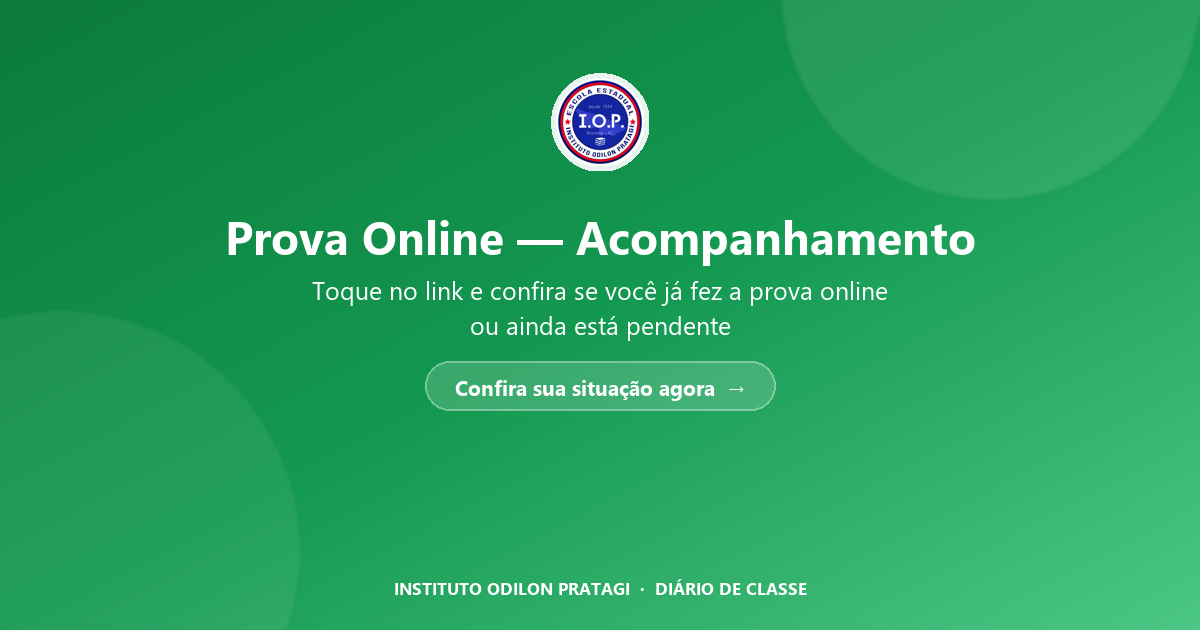
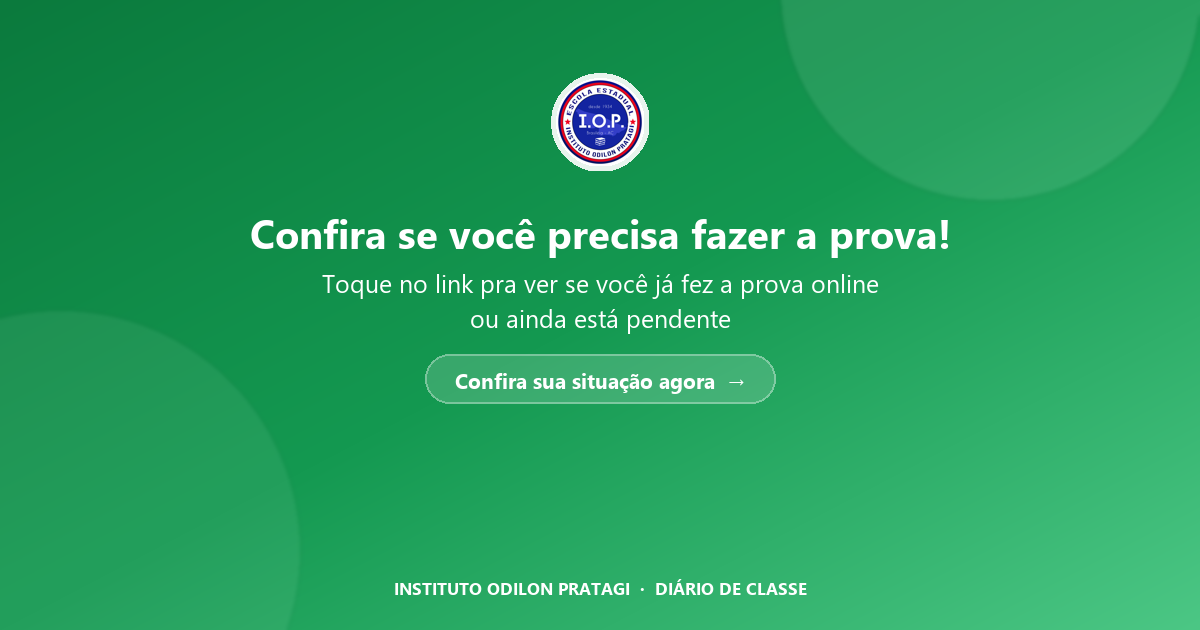
Título mais chamativo e remove a explicação da regra pros alunos
- Título trocado pra "Confira se você precisa fazer a prova!" na
  página, no card do WhatsApp (imagem) e nas meta tags Open Graph.
- Tira o parágrafo "Regra: quem tem mais de X dias..." do rodapé da
  página dos líderes — não expõe critério pros alunos, só o selo.

Changed region(s): [[0.185, 0.3317, 0.8325, 0.6635]]

diff --git a/src/ui/pages/LideresProva.tsx b/src/ui/pages/LideresProva.tsx
@@ -4,8 +4,7 @@ import { ClipboardCheck, Users, Loader2, ArrowLeft } from 'lucide-react';
 import { cn } from '../AppLayout';
 import { bimestreAtual, type Bimestre } from '../../domain/useRelatorioFrequencia';
 import {
-  useContextoPendentesProva, usePendentesProva,
-  LIMITE_PRESENCAS, LIMITE_PRESENCAS_AEE, TURMAS_PADRAO,
+  useContextoPendentesProva, usePendentesProva, TURMAS_PADRAO,
   type ContextoPendentesProva,
 } from '../../domain/usePendentesProva';
 
@@ -86,11 +85,6 @@ function PainelTurma({ turmaId, bimestre, contexto }: { turmaId: string; bimestr
           })}
         </ul>
       </div>
-
-      <p className="text-[11px] text-on-surface-variant text-center px-4">
-        Regra: quem tem mais de {LIMITE_PRESENCAS / 2} dias de aula no bimestre já é dispensado
-        (alunos AEE, mais de {LIMITE_PRESENCAS_AEE / 2} dias).
-      </p>
     </div>
   );
 }
@@ -110,7 +104,7 @@ export function LideresProva() {
     <div className="min-h-screen bg-background font-sans">
       <div className="text-center py-7 px-4 border-b border-outline-variant bg-surface">
         <ClipboardCheck className="w-10 h-10 mx-auto mb-2 text-primary" />
-        <h1 className="text-on-surface text-xl font-bold">Prova Online — Acompanhamento</h1>
+        <h1 className="text-on-surface text-xl font-bold">Confira se você precisa fazer a prova!</h1>
         <p className="text-on-surface-variant text-sm mt-1">Instituto Odilon Pratagi · consulta pros líderes de turma</p>
       </div>
 

diff --git a/index.html b/index.html
@@ -12,14 +12,14 @@
          um backend que gere a página por rota). -->
     <meta property="og:type" content="website" />
     <meta property="og:site_name" content="Diário de Classe - IOP" />
-    <meta property="og:title" content="Prova Online — Acompanhamento" />
-    <meta property="og:description" content="Toque no link e confira se você já fez a prova online ou ainda está pendente." />
+    <meta property="og:title" content="Confira se você precisa fazer a prova!" />
+    <meta property="og:description" content="Toque no link pra ver se você já fez a prova online ou ainda está pendente." />
     <meta property="og:image" content="https://diarioiop.com.br/og-lideres-prova.png" />
     <meta property="og:image:width" content="1200" />
     <meta property="og:image:height" content="630" />
     <meta name="twitter:card" content="summary_large_image" />
-    <meta name="twitter:title" content="Prova Online — Acompanhamento" />
-    <meta name="twitter:description" content="Toque no link e confira se você já fez a prova online ou ainda está pendente." />
+    <meta name="twitter:title" content="Confira se você precisa fazer a prova!" />
+    <meta name="twitter:description" content="Toque no link pra ver se você já fez a prova online ou ainda está pendente." />
     <meta name="twitter:image" content="https://diarioiop.com.br/og-lideres-prova.png" />
     <script src="https://cdn.tailwindcss.com"></script>
     <script>
